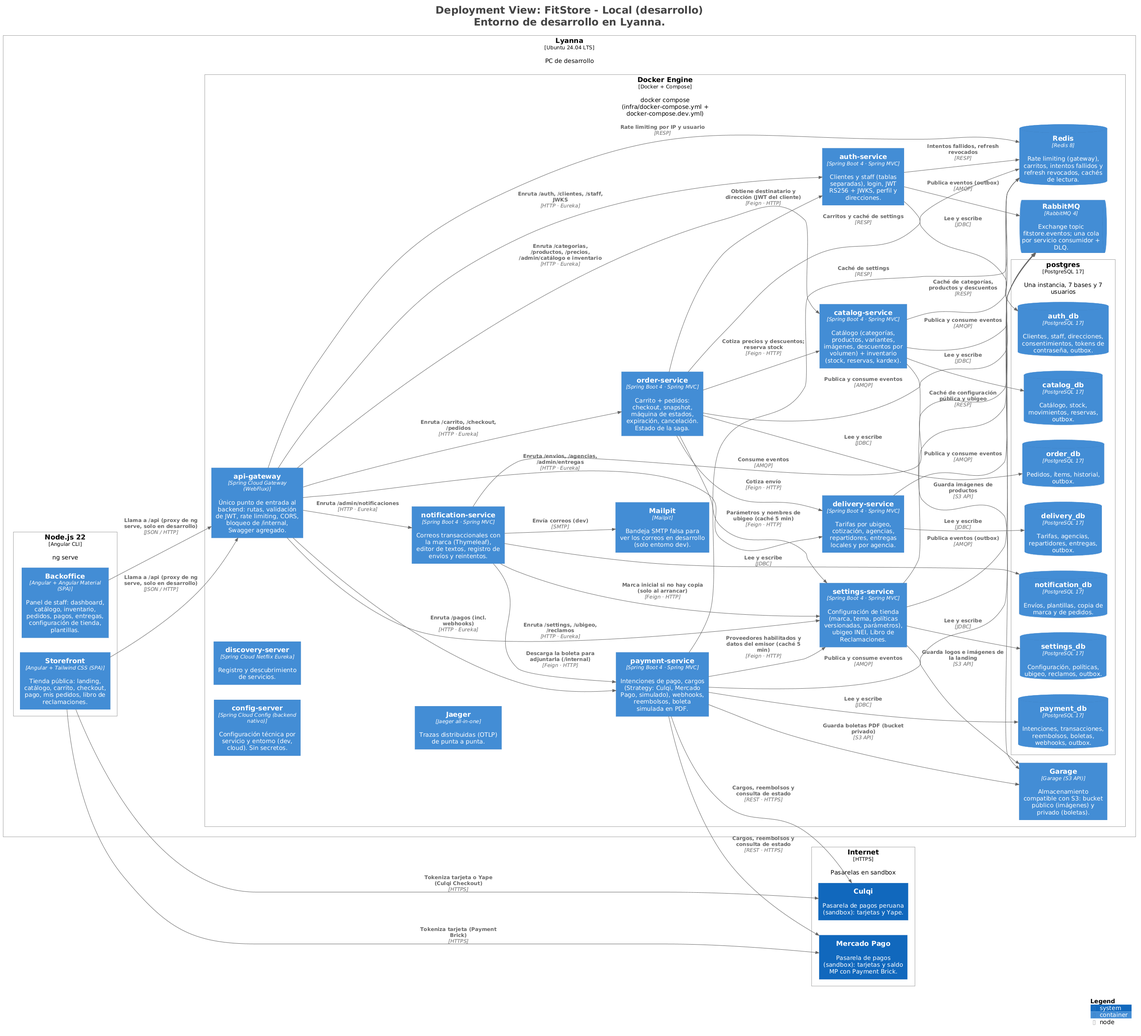
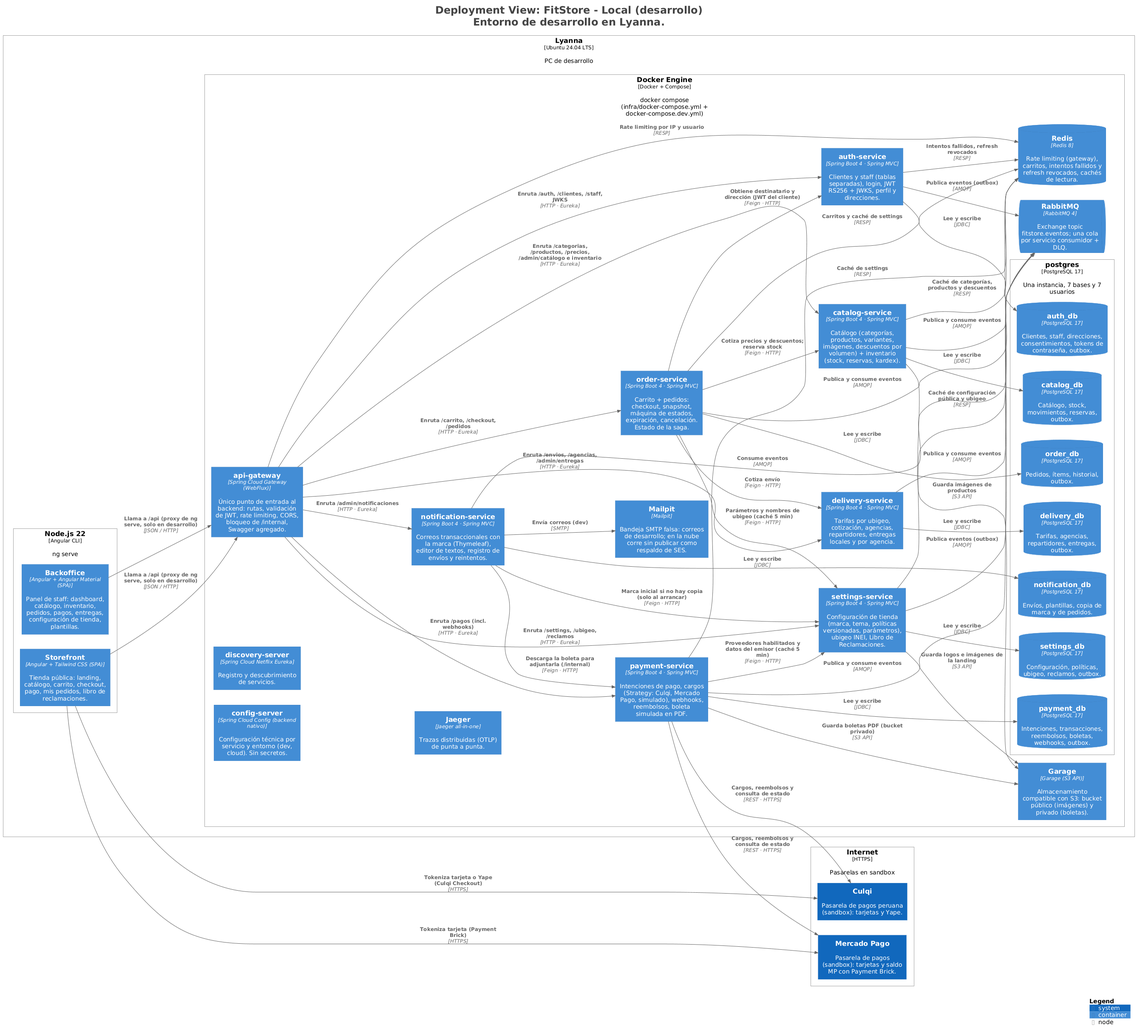
docs: revisión de coherencia entre todos los documentos aprobados
- Eventos: PedidoExpirado sin notification (order v8, macro v23, notification v10, SPEC-7 v4); PagoReembolsado también lo consume order (payment v8).
- Menú del backoffice completo y contadores por funcionalidad (SPEC-0b v6 R3, CA-0b-24; SPEC-5 v8).
- Catalog v7: rangos de la configuración de inventario; SPEC-2 v7 sin restos de la configuración en P-2-07.
- Infraestructura: duckdns y Mailpit como respaldo de SES en la nube (micro v5, SPEC-8 v3, ADR-014, C4 de despliegue).
- RF-BO-02 citado en la 0b; RF-BO-03 como alcance futuro (SPEC-4 v8, macro).
- SPEC-6 v5 (orden de rutas), README (14 pantallas clave), c4-sistema v5, bocetos P-0b-02 y P-4-06.

diff --git a/docs/specs/img/src/P-4-06-detalle-pedido.html b/docs/specs/img/src/P-4-06-detalle-pedido.html
@@ -12,10 +12,10 @@
 <div class="card col"><b>Historial</b><div class="s">13/10 08:40 · → PENDIENTE_PAGO · Cliente</div><div class="s">13/10 08:41 · Pago rechazado: fondos insuficientes · Sistema</div><div class="s">13/10 08:44 · → PAGADO · Sistema</div></div></div>
 <div class="col" style="width:420px"><div class="card col"><b>Cliente y destinatario</b><span class="s">Luis Rojas · luis@correo.com<br>DNI 44556677 · 987654321<br><u>Ver ficha del cliente</u></span></div>
 <div class="card col"><b>Entrega</b><span class="s">Av. Aviación 1450 · San Borja, Lima, Lima<br>Ref.: edificio azul · 1–2 días hábiles</span><span class="s">Notas: "Tocar el timbre 2 veces"</span></div>
-<div class="card col"><b>Pago</b><span class="s">Culqi · tarjeta · S/ 129.80 · <u>Boleta B001-000045</u></span></div>
+<div class="card col"><b>Pago</b><span class="s">Culqi · tarjeta · S/ 129.80 · <u>Boleta B001-00000045</u></span></div>
 <div class="card col" style="border-style:dashed"><b>Registrar reembolso (diálogo · solo ADMIN · pedido ENTREGADO dentro del plazo)</b>
 <div class="row s"><span>☑</span><span class="sp">Legging Pro Compresión · M · Negro</span><span>cant. [1] de 2</span><span>S/ 59.90</span></div>
 <div class="row"><div class="f sp">Monto: S/ 59.90 (propuesto, editable)</div><div class="f sp">Motivo: Prenda defectuosa ▾</div></div><div class="f">Nota (opcional)</div>
 <div class="row"><span class="s">Puedes devolver hasta S/ 129.80 · plazo hasta 12/11 · el stock no se reingresa solo</span><span class="sp"></span><div class="btn p">Registrar reembolso</div></div></div>
-<div class="card col" style="border-style:dashed"><b>Diálogos</b><span class="s">Comentario opcional al avanzar · Cancelar: motivo obligatorio (300) · Recogido: ☐ Verifiqué el DNI del destinatario</span><div class="err">409: "El pedido cambió; recarga la página"</div></div></div></div></div></div>
+<div class="card col" style="border-style:dashed"><b>Diálogos</b><span class="s">Comentario opcional al avanzar · Cancelar: motivo obligatorio (300) · Recogido: ☐ Verifiqué el DNI del destinatario · No recogido: motivo obligatorio (→ DEVUELTO)</span><div class="err">409: "El pedido cambió; recarga la página"</div></div></div></div></div></div>
 </body></html>

diff --git a/docs/specs/img/src/P-0b-02-backoffice.html b/docs/specs/img/src/P-0b-02-backoffice.html
@@ -4,14 +4,14 @@
  <div class="col pad g" style="width:240px">
   <div class="box b" style="height:48px;background:#fff">LOGO · Tienda</div>
   <div class="p pad" style="border-radius:6px">▣ Dashboard</div>
-  <div>🧾 Pedidos</div><div>🚚 Entregas</div><div>👷 Repartidores</div>
-  <div>👕 Catálogo</div><div>📦 Inventario</div>
-  <div>💳 Pagos <span class="tag">ADMIN</span></div>
+  <div>🧾 Pedidos</div><div>🚚 Entregas</div><div class="s" style="padding-left:22px">Lista · Del día</div><div>👷 Repartidores</div>
+  <div>👕 Catálogo</div><div class="s" style="padding-left:22px">Productos · Categorías · Tallas y colores · Descuentos · Carga masiva</div><div>📦 Inventario</div>
+  <div>💳 Pagos <span class="tag">ADMIN</span></div><div class="s" style="padding-left:22px">Pagos · Reembolsos <span style="background:#b91c1c;color:#fff;border-radius:9px;padding:0 6px">1</span></div>
   <div>🏷 Tarifas y agencias <span class="tag">ADMIN</span></div>
   <div>👥 Clientes</div><div>🛡 Staff <span class="tag">ADMIN</span></div>
-  <div>✉ Notificaciones <span class="tag">ADMIN</span></div>
+  <div>✉ Notificaciones <span class="tag">ADMIN</span></div><div class="s" style="padding-left:22px">Registro · Plantillas</div>
   <div>📕 Reclamos</div>
-  <div>⚙ Configuración de tienda <span class="tag">ADMIN</span></div>
+  <div>⚙ Configuración de tienda <span class="tag">ADMIN</span></div><div class="s" style="padding-left:22px">Tienda · Políticas</div>
   <div class="sp"></div><div class="s">Menú según rol (OPERADOR no ve lo marcado ADMIN)</div>
  </div>
  <div class="col sp">

diff --git a/docs/specs/SPEC-0b-fundaciones-frontend.md b/docs/specs/SPEC-0b-fundaciones-frontend.md
@@ -1,10 +1,11 @@
 # SPEC-0b — Fundaciones del frontend
 
-> Versión: **v5 (aprobado)** — 2026-10-19 · Estados: ✅ decidido · 🟡 propuesto · ❓ abierto
+> Versión: **v6 (aprobado)** — 2026-10-19 · Estados: ✅ decidido · 🟡 propuesto · ❓ abierto
 > **Dueña de:** workspace Angular (`frontend/`), librería `shared`, *shells* (layouts) de storefront y backoffice, rutas y menús generales, tema white-label, carpetas `ui/` de cada app, job de frontend en CI.
 > **Depende de:** 0a (gateway y CI), la etapa de contratos (OpenAPI para generar los clientes) y la etapa de diseño (**sistema de diseño**: los componentes de `ui/` se construyen según él). · **Habilita:** pantallas de las specs 1–8.
 
 **Historial:**
+- v6 (2026-10-19): revisión de coherencia: HU-0b-06 cita RF-BO-02 (tablas con paginación, filtros y orden); menú del backoffice completo (R3: ítems, subítems, roles) y mecanismo de contadores por funcionalidad (`CONTADOR_MENU`), que necesitaba la SPEC-5 para los reembolsos fallidos (CA-0b-24).
 - v5 (2026-10-19): el selector de ubigeo de `ui/` acepta la opción `hasta` (departamento, provincia o distrito), pedida por la SPEC-6 para las tarifas (CA-0b-26).
 - v4 (2026-10-18): **convención de filas de las tablas del backoffice** (R11, CA-0b-28b): el identificador es un enlace real, la fila entera es clicable y la última columna lleva las acciones ("Ver ›", hasta 2 botones o el menú "⋮"). Se aplica a los listados de las specs 1–5 (revisión hecha al cerrar la SPEC-5).
 - v3 (2026-10-18): el pie de la tienda va al final del documento y nunca se ve en la pantalla inicial (boceto P-0b-01 y CA-0b-20b). Resto de la spec aprobado → **spec aprobada**.
@@ -169,12 +170,14 @@ CA-0b-23  Cuando la spec del carrito actualiza el contador compartido
           Entonces el icono del carrito muestra la cantidad sin recargar
 
 CA-0b-24  Cuando abro el backoffice
-          Entonces veo menú lateral por rol, ruta de migas, título de página y menú de usuario (perfil, cambiar contraseña, salir)
+          Entonces veo menú lateral por rol (con los ítems y subítems de la tabla R3), ruta de migas, título de página
+               y menú de usuario (perfil, cambiar contraseña, salir)
+          Y un ítem con contador registrado (p. ej. Reembolsos) muestra su número como insignia
 ```
 
 ### HU-0b-06 — Componentes compartidos documentados
 
-Como desarrollador de una funcionalidad, quiero componentes listos y un catálogo para verlos, para armar pantallas coherentes sin crear los míos. · Cubre: RNF-11, 18, 20 · Pantallas: [P-0b-03](#p-0b-03--estados-comunes), [P-0b-04](#p-0b-04--catálogo-de-componentes)
+Como desarrollador de una funcionalidad, quiero componentes listos y un catálogo para verlos, para armar pantallas coherentes sin crear los míos. · Cubre: RF-BO-02, RNF-11, 18, 20 · Pantallas: [P-0b-03](#p-0b-03--estados-comunes), [P-0b-04](#p-0b-04--catálogo-de-componentes)
 
 ```gherkin
 CA-0b-25  Cuando abro /_ui en desarrollo (en cualquiera de las dos apps)
@@ -266,7 +269,7 @@ No modifica el backend. Decisiones de implementación del frontend:
 |---|---|---|
 | R1 | **Estructura** ✅ | `frontend/projects/{storefront,backoffice}/src/app/{core,layout,ui,features}` y `frontend/projects/shared/src/lib/{api,auth,http,theme,i18n,ubigeo,carrito,models,pipes}`. Componentes *standalone*, señales (`signal`, `computed`) para el estado y control de flujo nuevo (`@if`, `@for`). Sin NgRx (KISS) |
 | R2 | **Rutas registradas** ✅ | Tabla de abajo; cada ruta carga `features/<carpeta>/<carpeta>.routes.ts`, que 0b crea con una página "Próximamente". La spec dueña solo reemplaza el contenido de su carpeta |
-| R3 | **Menú por rol** | Definido en `layout/menu.ts` del backoffice con el rol mínimo de cada ítem (ver P-0b-02) |
+| R3 | **Menú por rol** ✅ | Definido en `layout/menu.ts` del backoffice con el rol mínimo de cada ítem y sus subítems (tabla de abajo y P-0b-02); los ítems pueden mostrar un contador aportado por su funcionalidad |
 | R4 | **Tema** ✅ | `provideAppInitializer` carga `/settings/public` y escribe variables CSS en `:root` (`--fs-color-primario`, `--fs-color-secundario`, `--fs-color-acento`, `--fs-color-fondo`, `--fs-color-texto`, `--fs-fuente`, `--fs-radio`). Tailwind 4 las usa en su `@theme`; en Angular Material 3 se asignan a los tokens del sistema (`--mat-sys-primary`, …). La configuración se guarda en `localStorage` como respaldo (CA-0b-07). La fuente se carga de Google Fonts según `tipografia` |
 | R5 | **Clientes de API** ✅ | `openapi-generator` (`typescript-angular`) → `shared/api/<servicio>/`, **versionados en Git**; el CI regenera y falla si hay diferencias (CA-0b-30). Ninguna spec los edita a mano |
 | R6 | **Sesión** | `SesionStore` en `shared/auth` (señales: cuenta, rol, tipo; el access token solo en memoria). `iniciarSesion()` y `cerrarSesion()` los llaman las pantallas de la spec 1. Guards `autenticadoGuard`, `rolGuard('ADMIN')` |
@@ -275,6 +278,26 @@ No modifica el backend. Decisiones de implementación del frontend:
 | R9 | **Pruebas unitarias** ✅ | El *runner* por defecto del CLI de Angular 22 (Vitest) con Angular Testing Library; se verifica al crear el workspace |
 | R10 | **Accesibilidad** | Componentes de `ui/` con etiquetas, foco visible y contraste del tema (RNF-19 advierte en settings); objetivo Lighthouse ≥ 85 se mide en la spec 8 |
 | R11 | **Filas de las tablas del backoffice** ✅ | Convención única de la tabla paginada de `ui/` (`FsTabla` con `filaEnlace` y `acciones`): (1) el **identificador** de la fila (código, nombre o número) es un `<a routerLink>`; (2) **toda la fila** es clicable, con *hover*, y navega a lo mismo; (3) **última columna de acciones**, alineada a la derecha: "Ver ›" si la fila solo tiene detalle, **1 o 2 botones** si tiene acciones propias, o el menú **"⋮"** (`mat-menu`) si son 3 o más. Los clics en acciones no se propagan a la fila. Si la entidad no tiene página de detalle, el enlace abre su diálogo de edición. Cada spec indica en la pantalla qué abre el enlace y qué acciones lleva la fila |
+
+**Menú del backoffice (R3):**
+
+| Ítem | Subítems (ruta) | Rol mínimo | Contador |
+|---|---|---|---|
+| Dashboard | `/` | OPERADOR | — |
+| Pedidos | `/pedidos` | OPERADOR | — |
+| Entregas | Lista (`/entregas`), Del día (`/entregas/dia`) | OPERADOR | — |
+| Repartidores | `/repartidores` | OPERADOR | — |
+| Catálogo | Productos (`/catalogo/productos`, OPERADOR en lectura), Categorías, Tallas y colores, Descuentos, Carga masiva (ADMIN) | OPERADOR | — |
+| Inventario | `/inventario` | OPERADOR | — |
+| Pagos | Pagos (`/pagos`), Reembolsos (`/reembolsos`) | ADMIN | Reembolsos fallidos (SPEC-5) |
+| Tarifas y agencias | Tarifas (`/tarifas`), Agencias (`/agencias`) | ADMIN | — |
+| Clientes | `/clientes` | OPERADOR | — |
+| Staff | `/staff` | ADMIN | — |
+| Notificaciones | Registro (`/notificaciones`), Plantillas (`/notificaciones/plantillas`) | ADMIN | — |
+| Reclamos | `/reclamos` | OPERADOR | — |
+| Configuración de tienda | Tienda (`/configuracion`), Políticas (`/configuracion/politicas`) | ADMIN | — |
+
+Los contadores los aporta cada funcionalidad sin tocar el *shell*: registra un proveedor `CONTADOR_MENU` (*multi provider*) con la clave del ítem y una función que devuelve el número; el *shell* lo muestra como insignia y lo refresca al navegar.
 
 **Rutas registradas (R2):**
 

diff --git a/docs/specs/SPEC-7-notificaciones.md b/docs/specs/SPEC-7-notificaciones.md
@@ -1,11 +1,12 @@
 # SPEC-7 — Notificaciones
 
-> Versión: **v3 (aprobado)** — 2026-10-19 · Estados: ✅ decidido · 🟡 propuesto · ❓ abierto
+> Versión: **v4 (aprobado)** — 2026-10-19 · Estados: ✅ decidido · 🟡 propuesto · ❓ abierto
 > **Dueña de:** `backend/notification-service` (enrutamiento de eventos, plantillas, envío, registro) · backoffice: `features/notificaciones`.
 > **Depende de:** 0a, 0b, 1 (sesión de staff) · consume los eventos de auth, order, payment, delivery, catalog y settings (AsyncAPI) y usa `/internal/v1/boletas/{numero}` de payment · **Habilita:** 8 (demo con todos los correos en Mailpit y SES).
 > **Contratos:** `contracts/openapi/notification-service.yaml`; no publica eventos; consume los de la sección 6 del micro.
 
 **Historial:**
+- v4 (2026-10-19): revisión de coherencia: CA-7-03 aclara que `PedidoExpirado` y `PagoRechazado` no se escuchan (micro v10).
 - v3 (2026-10-19): los datos de demostración también se cargan en la nube con el perfil `demo` (SPEC-8 I7), con UUID fijos compartidos entre servicios (`docs/demo/ids-demo.md`).
 - v2 (2026-10-19): N7 ✅ "Enviar prueba a mi correo" (CA-7-30; micro v9) → **spec aprobada**.
 - v1 (2026-10-19): borrador inicial.
@@ -50,9 +51,9 @@ CA-7-01  Cuando llega cada evento de la tabla 4.1 del micro
 CA-7-02  Dado que el mismo evento llega dos veces
          Entonces se crea un solo envío
 
-CA-7-03  Cuando llegan PedidoCreado, PedidoPagado, PedidoExpirado, PagoRechazado o EntregaActualizada
-         en PENDIENTE_* o ASIGNADA
+CA-7-03  Cuando llegan PedidoCreado, PedidoPagado o EntregaActualizada en PENDIENTE_* o ASIGNADA
          Entonces no se envía ningún correo (PedidoCreado guarda la copia del pedido; PedidoPagado inicia el respaldo de la boleta)
+         Y PedidoExpirado y PagoRechazado ni siquiera se escuchan (la cola no se enlaza a sus routing keys)
 
 CA-7-04  Dado que el admin desactivó una plantilla opcional (p. ej. la bienvenida)
          Entonces su evento no genera envío
@@ -234,7 +235,7 @@ Todo según el micro de notification. Decisiones de implementación de esta spec
 | N5 | **Reenvío con textos actuales** ✅ | Reenviar vuelve a renderizar con la marca y los textos vigentes (no se guarda el HTML enviado, para no almacenar datos personales de más) |
 | N6 | **Ritmo por entorno** ✅ | `ritmo-por-segundo`: 1 en `cloud` (límite de SES en sandbox) y 10 en `dev` (Mailpit no tiene límite), para que la demo local sea ágil |
 | N7 | **Enviar prueba a mi correo** ✅ | Botón en el editor que envía el correo con los textos actuales y datos de ejemplo al correo del admin conectado (lo toma del token), con "[Prueba]" en el asunto; respeta el ritmo y queda en el registro con referencia `PRUEBA`. Endpoint `POST /admin/notificaciones/plantillas/{codigo}/prueba` (micro v9). En la nube, con SES en sandbox, el correo del admin debe estar verificado (R14) |
-| N8 | **Corrección del micro** ✅ | El micro dice "definición de las 17" plantillas en 10.1; con C14 son **18**. Se corrige en esta spec (micro v8) |
+| N8 | **Corrección del micro** ✅ | El micro decía "definición de las 17" plantillas en 10.1; con C14 son **18**. Corregido en el micro v8 |
 
 ## 6. Datos
 

diff --git a/docs/specs/SPEC-8-integracion-nube-demo.md b/docs/specs/SPEC-8-integracion-nube-demo.md
@@ -1,11 +1,12 @@
 # SPEC-8 — Integración, nube y demo
 
-> Versión: **v2 (aprobado)** — 2026-10-19 · Estados: ✅ decidido · 🟡 propuesto · ❓ abierto
+> Versión: **v3 (aprobado)** — 2026-10-19 · Estados: ✅ decidido · 🟡 propuesto · ❓ abierto
 > **Dueña de:** dashboard del backoffice (`features/dashboard`), pruebas de punta a punta (`frontend/e2e/`), despliegue en la nube (`infra/docker-compose.cloud.yml`, `infra/caddy/`, `infra/scripts/`, `.github/workflows/deploy.yml`), guion de la demo (`docs/demo/`).
 > **Depende de:** 1 a 7 (todas integradas en `dev`) · usa los endpoints de resumen de order, catalog, delivery y settings · **Habilita:** la entrega final (demo en la nube, video y exposición).
 > **Contratos:** no crea endpoints; consume los ya definidos (sección 4).
 
 **Historial:**
+- v3 (2026-10-19): revisión de coherencia: Mailpit corre en la nube sin publicar como respaldo de SES (CA-8-15, CA-8-30; micro de infraestructura v5 con `duckdns` y Mailpit en la tabla de memoria).
 - v2 (2026-10-19): I6 ✅ Garage en la VM (adaptador Azure Blob diferido); I7 ✅ la nube carga **todos** los datos de demostración, incluidos clientes y pedidos, con la contraseña de las cuentas demo desde un secreto (CA-8-31) → **spec aprobada**. Ajustes propagados: SPEC-0a v5, SPEC-1 v5, SPEC-2 a SPEC-7 (nota del perfil `demo`), micro de infraestructura v5, stack v3, macro v22 y ADR-013.
 - v1 (2026-10-19): borrador inicial.
 
@@ -107,7 +108,7 @@ CA-8-14  Cuando levanto docker-compose.cloud.yml en la VM
          Entonces https://tienda.<sub>.duckdns.org muestra el storefront y https://admin.<sub>.duckdns.org el backoffice,
               ambos con certificado válido de Let's Encrypt gestionado por Caddy, y /api de cada dominio llega al gateway
 
-CA-8-15  Solo Caddy publica puertos (80 y 443); Eureka, RabbitMQ, Jaeger, Garage-admin y las bases no son accesibles
+CA-8-15  Solo Caddy publica puertos (80 y 443); Eureka, RabbitMQ, Jaeger, Mailpit, Garage-admin y las bases no son accesibles
          desde internet (verificado con un escaneo de puertos desde fuera)
 
 CA-8-16  La suma de mem_limit de los contenedores es ≤ 6,5 GB y todo queda "healthy" en la VM de 8 GB;
@@ -179,7 +180,7 @@ CA-8-29  docs/demo/guion.md lista, con tiempos, el recorrido: landing y catálog
          (Swagger con contraseña, Postman contra la nube, Jaeger, GitHub Actions)
 
 CA-8-30  El guion incluye la lista de verificación previa (VM encendida, certificados, correos verificados, datos de demo,
-         saldo de la tarjeta de prueba) y un plan B por cada dependencia externa (sandbox caído → simulado; SES → Mailpit por túnel)
+         saldo de la tarjeta de prueba) y un plan B por cada dependencia externa (sandbox caído → simulado; SES caído → SMTP_HOST=mailpit y los correos se ven por túnel)
 
 CA-8-31  Dado el perfil demo en la nube
          Entonces existen los datos de demostración de todos los servicios (clientes, pedidos, pagos, entregas, correos),

diff --git a/docs/specs/SPEC-2-catalogo-inventario.md b/docs/specs/SPEC-2-catalogo-inventario.md
@@ -1,11 +1,12 @@
 # SPEC-2 — Catálogo e inventario
 
-> Versión: **v6 (aprobado)** — 2026-10-19 · Estados: ✅ decidido · 🟡 propuesto · ❓ abierto
+> Versión: **v7 (aprobado)** — 2026-10-19 · Estados: ✅ decidido · 🟡 propuesto · ❓ abierto
 > **Dueña de:** `backend/catalog-service` (módulos catálogo e inventario) · tienda: `features/catalogo` · backoffice: `features/catalogo`, `features/inventario`.
 > **Depende de:** 0a, 0b, 1 (sesión de staff) · **Habilita:** 3 (destacados de la landing), 4 (cotización y reserva), 8.
 > **Contratos:** `contracts/openapi/catalog-service.yaml` (incluye `/internal/v1/inventario/reservas`); usa el contrato de order (`POST /carrito/items`); eventos `StockBajo`, `StockNoConfirmado` (publica) y `PedidoPagado`, `PedidoCancelado`, `PedidoExpirado` (consume).
 
 **Historial:**
+- v7 (2026-10-19): revisión de coherencia: P-2-07 ya no menciona la configuración de inventario (se movió a P-3-04 en la v4).
 - v6 (2026-10-19): los datos de demostración también se cargan en la nube con el perfil `demo` (SPEC-8 I7), con UUID fijos compartidos entre servicios (`docs/demo/ids-demo.md`).
 - v5 (2026-10-18): convención de tablas de la SPEC-0b (R11) aplicada a P-2-03, P-2-07, P-2-08 y P-2-09 (y señalada como no aplicable en P-2-05 y P-2-06); P-2-04 se abre en solo lectura para OPERADOR (antes la ruta era solo ADMIN, aunque P-2-03 le permitía ver los productos). Bocetos actualizados.
 - v4 (2026-10-18): por decisión de la SPEC-3 (S2), el stock mínimo por defecto y el margen de reserva se editan en Configuración de tienda (P-3-04, pestaña Parámetros); se quita `DialogoConfiguracionInventario` de P-2-07. El endpoint sigue siendo de esta spec.
@@ -383,12 +384,12 @@ CA-2-57  Dado Redis caído
 
 ### P-2-07 — Inventario
 
-- **Ruta / proyecto:** `/inventario` · backoffice · OPERADOR y ADMIN (configuración: solo ADMIN).
+- **Ruta / proyecto:** `/inventario` · backoffice · OPERADOR y ADMIN.
 - **Boceto:** ![P-2-07](img/P-2-07-inventario.png)
 - **Diseño de alta fidelidad:** 🕓 deriva del sistema de diseño (patrón "tabla").
 - **Componentes:** `InventarioPage` (tabla con filas resaltadas por stock bajo y agotado), `DialogoEntrada` (varias líneas), `DialogoAjuste`. La configuración de inventario de la tienda se edita en P-3-04 (SPEC-3).
 - **Tabla (0b R11):** el **SKU** abre el kardex (`/inventario/:varianteId`, P-2-08); acciones: "Kardex ›" y "Mínimo" (diálogo para el umbral propio del SKU, CA-2-43).
-- **Endpoints:** `GET /admin/inventario`, `POST /admin/inventario/entradas|ajustes`, `PATCH /admin/inventario/{varianteId}/minimo`, `GET/PUT /admin/inventario/configuracion`.
+- **Endpoints:** `GET /admin/inventario`, `POST /admin/inventario/entradas|ajustes`, `PATCH /admin/inventario/{varianteId}/minimo`. (`GET/PUT /admin/inventario/configuracion` lo implementa esta spec, pero lo usa P-3-04 de la SPEC-3.)
 
 ### P-2-09 — Carga masiva
 

diff --git a/docs/analisis/micro/order-service.md b/docs/analisis/micro/order-service.md
@@ -1,9 +1,10 @@
 # FitStore — Análisis micro: `order-service`
 
-> Versión: **v7 (aprobado)** — 2026-10-19. Fuente: [`01-analisis-macro.md`](../01-analisis-macro.md) v12.
+> Versión: **v8 (aprobado)** — 2026-10-19. Fuente: [`01-analisis-macro.md`](../01-analisis-macro.md) v12.
 > Estados: ✅ decidido · 🟡 propuesto · ❓ abierto · 🕓 diferido
 
 **Historial:**
+- v8 (2026-10-19): revisión de coherencia: `PedidoExpirado` no lo consume notification (no hay correo de pedido expirado).
 - v7 (2026-10-19): por SPEC-6: estado final **`DEVUELTO`** (desde `ENVIADO` con `EntregaActualizada` devuelta, o desde `LISTO_RECOJO` cuando el operador marca "No recogido"); el reembolso postventa también se permite en `DEVUELTO`, sin plazo, con motivo `NO_ENTREGADO`.
 - v6 (2026-10-18): **reembolso postventa** (4.8): el ADMIN registra un reembolso total o parcial de un pedido `ENTREGADO` dentro del plazo de settings; tabla `pedido_reembolso`, campo `monto_reembolsado`, evento `ReembolsoSolicitado`, consume `PagoReembolsado`. Decidido en la SPEC-5.
 - v5 (2026-10-18): desde la SPEC-4: los pedidos de un cliente usan `GET /admin/pedidos?clienteId=` (se quita `/admin/clientes/{clienteId}/pedidos`, O3); las ventas del resumen se cuentan por la fecha del paso a `PAGADO` y sin los cancelados, con índice `pedido_historial (estado_nuevo, creado_en)` (O6).
@@ -351,7 +352,7 @@ Exchange `fitstore.eventos` (topic), sobre común, outbox e idempotencia (ADR-00
 | `PedidoCreado` | `order.pedido.creado` | `pedidoId`, `codigo`, `clienteId`, destinatario, modalidad, dirección, `items[]`, `subtotal`, `descuentoTotal`, `costoEnvio`, `total`, `expiraEn` | payment (intención de pago), notification |
 | `PedidoPagado` | `order.pedido.pagado` | `pedidoId`, `codigo`, `items[{varianteId, cantidad}]` | catalog (confirmar reserva), notification |
 | `PedidoCancelado` | `order.pedido.cancelado` | `pedidoId`, `codigo`, `fuePagado`, `motivo`, `actor`, `items[]` | catalog, payment (reembolso si fue pagado), notification |
-| `PedidoExpirado` | `order.pedido.expirado` | `pedidoId`, `codigo` | catalog, payment (anular intención), notification |
+| `PedidoExpirado` | `order.pedido.expirado` | `pedidoId`, `codigo` | catalog, payment (anular intención) |
 | `PagoNoAplicable` | `order.pago.no-aplicable` | `pedidoId`, `pagoId`, `motivo` | payment (reembolso automático) |
 | `PedidoListoDespacho` | `order.pedido.listo-despacho` | `pedidoId`, `codigo`, modalidad, destinatario, dirección, agencia, resumen de ítems | delivery (crear entrega) |
 | `ReembolsoSolicitado` ✅ **nuevo** | `order.reembolso.solicitado` | `pedidoId`, `codigo`, `solicitudId` (id de `pedido_reembolso`, clave de idempotencia), `monto`, `motivo` | payment (ejecuta el reembolso) |

diff --git a/docs/specs/SPEC-5-pagos.md b/docs/specs/SPEC-5-pagos.md
@@ -1,11 +1,12 @@
 # SPEC-5 — Pagos
 
-> Versión: **v7 (aprobado)** — 2026-10-19 · Estados: ✅ decidido · 🟡 propuesto · ❓ abierto
+> Versión: **v8 (aprobado)** — 2026-10-19 · Estados: ✅ decidido · 🟡 propuesto · ❓ abierto
 > **Dueña de:** `backend/payment-service` (intención, cobros, webhooks, reembolsos, boleta) · tienda: `features/pago` · backoffice: `features/pagos`.
 > **Depende de:** 0a, 0b, 1 (sesión) · usa el contrato de eventos de order (`PedidoCreado`, `PedidoCancelado`, `PedidoExpirado`, `PagoNoAplicable`, `ReembolsoSolicitado`) y `GET /settings/public` · **Habilita:** 4 (el pedido pasa a `PAGADO`, guarda la boleta y registra lo reembolsado), 7 (correos de pago, reembolso y alerta con la boleta adjunta), 8 (demo de punta a punta).
 > **Contratos:** `contracts/openapi/payment-service.yaml`; eventos que publica `PagoConfirmado`, `PagoRechazado`, `BoletaEmitida`, `PagoReembolsado`, `ReembolsoFallido`.
 
 **Historial:**
+- v8 (2026-10-19): revisión de coherencia: el contador de reembolsos fallidos se registra con `CONTADOR_MENU` de la SPEC-0b (R3), en lugar de que el *shell* lo consulte por su cuenta.
 - v7 (2026-10-19): los datos de demostración también se cargan en la nube con el perfil `demo` (SPEC-8 I7), con UUID fijos compartidos entre servicios (`docs/demo/ids-demo.md`).
 - v6 (2026-10-19): el contador de reembolsos fallidos del menú usa `size=1` y lee el total (Spring Data no acepta `size=0`), corregido al redactar la SPEC-8.
 - v5 (2026-10-19): el reembolso postventa también aplica a pedidos devueltos a la tienda (SPEC-6); sin cambios en el flujo de payment.
@@ -302,7 +303,7 @@ CA-5-38  Cuando lo marco como resuelto manualmente (p. ej. devolví por transfer
 - **Ruta / proyecto:** `/reembolsos` · backoffice · ADMIN.
 - **Boceto:** ![P-5-05](img/P-5-05-reembolsos.png)
 - **Diseño de alta fidelidad:** 🕓 deriva del sistema de diseño.
-- **Componentes:** `ReembolsosPage`, `DialogoResolverManual` (nota obligatoria, hasta 500 caracteres), contador de fallidos en el menú (lo consulta el *shell* con `GET /admin/reembolsos?estado=FALLIDO&size=1`, leyendo el total).
+- **Componentes:** `ReembolsosPage`, `DialogoResolverManual` (nota obligatoria, hasta 500 caracteres), contador de fallidos en el menú: la funcionalidad `pagos` registra un `CONTADOR_MENU` (SPEC-0b R3) que llama a `GET /admin/reembolsos?estado=FALLIDO&size=1` y lee el total.
 - **Tabla (0b R11):** el **código del pedido** abre el detalle del pago al que pertenece el reembolso (`/pagos/:id`); acciones (solo en FALLIDO): "Reintentar" y "Resolver manualmente".
 - **Endpoints:** `GET /admin/reembolsos`, `POST /admin/reembolsos/{id}/reintentar`, `PATCH /admin/reembolsos/{id}/resuelto-manual`.
 

diff --git a/docs/analisis/micro/infraestructura.md b/docs/analisis/micro/infraestructura.md
@@ -5,7 +5,7 @@
 > Ficha corta: estos servicios no tienen dominio de negocio, así que la estructura difiere de la plantilla.
 
 **Historial:**
-- v5 (2026-10-19): `AzureBlobFileStorage` diferido (en la nube se usa Garage en la VM, SPEC-8 I6); se quita la ruta `/api/v1/admin/clientes/*/pedidos` del gateway (los pedidos de un cliente usan `GET /admin/pedidos?clienteId=`, SPEC-4 O3); detectado al redactar la SPEC-8.
+- v5 (2026-10-19): contenedor `duckdns` y Mailpit como respaldo de SES en `cloud` (SPEC-8); `AzureBlobFileStorage` diferido (en la nube se usa Garage en la VM, SPEC-8 I6); se quita la ruta `/api/v1/admin/clientes/*/pedidos` del gateway (los pedidos de un cliente usan `GET /admin/pedidos?clienteId=`, SPEC-4 O3); detectado al redactar la SPEC-8.
 - v4 (2026-10-18): sección 10 aprobada → **documento completo aprobado**.
 - v3 (2026-10-18): sección 10 (diseño técnico) redactada: C3, código de las partes críticas, paquetes, dependencias, configuración e infraestructura.
 - v2 (2026-10-16): documento aprobado. Dominio de la demo: subdominio gratuito de **DuckDNS** (`tienda.` y `admin.` debajo). Swagger publicado en la nube **con contraseña**.
@@ -127,7 +127,8 @@ Swagger UI en `/swagger-ui` con un selector por servicio (cada servicio expone s
 | rabbitmq | `rabbitmq:4-management` | 384 MB |
 | garage | `dxflrs/garage` | 96 MB |
 | jaeger | `jaegertracing/jaeger` (all-in-one, en memoria) | 256 MB |
-| mailpit | `axllent/mailpit` (solo `dev`) | 64 MB |
+| mailpit | `axllent/mailpit` (bandeja de `dev`; en `cloud` corre sin publicar como respaldo de SES) | 64 MB |
+| duckdns | `lscr.io/linuxserver/duckdns` (solo `cloud`: actualiza la IP pública cada 5 min) | 32 MB |
 | caddy | `caddy:2` | 64 MB |
 | config, discovery, gateway | imágenes propias (Java 21) | 256 MB c/u |
 | 7 servicios de negocio | imágenes propias (Java 21, `-Xmx192m`) | 320 MB c/u |
@@ -143,7 +144,7 @@ Las versiones exactas de las imágenes se fijan al crear el repositorio (no `lat
 
 - `infra/docker-compose.yml`: base común.
 - `infra/docker-compose.dev.yml`: Mailpit, puertos publicados en `localhost` para depurar, perfil `dev`.
-- `infra/docker-compose.cloud.yml`: Caddy con dominios reales, SES, perfil `cloud`, sin puertos internos publicados.
+- `infra/docker-compose.cloud.yml`: Caddy con dominios reales, SES, DuckDNS, perfil `cloud` (y `demo`), sin puertos internos publicados.
 - `infra/.env.example`: todas las variables necesarias, sin valores reales.
 - `infra/postgres/init.sql`: crea las 7 bases y sus usuarios.
 

diff --git a/docs/specs/SPEC-4-pedidos.md b/docs/specs/SPEC-4-pedidos.md
@@ -1,11 +1,12 @@
 # SPEC-4 — Pedidos
 
-> Versión: **v7 (aprobado)** — 2026-10-19 · Estados: ✅ decidido · 🟡 propuesto · ❓ abierto
+> Versión: **v8 (aprobado)** — 2026-10-19 · Estados: ✅ decidido · 🟡 propuesto · ❓ abierto
 > **Dueña de:** `backend/order-service` (carrito, checkout, pedidos, saga) · tienda: `features/carrito`, `features/checkout`, `features/mis-pedidos` · backoffice: `features/pedidos`.
 > **Depende de:** 0a, 0b, 1 (sesión y direcciones) · usa los contratos de catalog (cotizar, reservar), auth (cliente y dirección), delivery (opciones y cotización de envío) y settings (parámetros y ubigeo) · **Habilita:** 5 (pago del pedido), 6 (entrega desde `PedidoListoDespacho`), 7 (correos del pedido), 8 (dashboard y E2E).
 > **Contratos:** `contracts/openapi/order-service.yaml`; eventos que publica `PedidoCreado`, `PedidoPagado`, `PedidoCancelado`, `PedidoExpirado`, `PagoNoAplicable`, `PedidoListoDespacho`, `PedidoListoRecojo`, `PedidoRecogido`, `ReembolsoSolicitado`; consume `PagoConfirmado`, `PagoRechazado`, `BoletaEmitida`, `PagoReembolsado`, `EntregaActualizada`.
 
 **Historial:**
+- v8 (2026-10-19): revisión de coherencia: "No incluye" deja explícito que exportar pedidos a CSV (RF-BO-03, C) es alcance futuro.
 - v7 (2026-10-19): los datos de demostración también se cargan en la nube con el perfil `demo` (SPEC-8 I7), con UUID fijos compartidos entre servicios (`docs/demo/ids-demo.md`).
 - v6 (2026-10-19): por la SPEC-6, estado final **DEVUELTO**: desde ENVIADO cuando delivery devuelve la entrega a la tienda (CA-4-45) o desde LISTO_RECOJO cuando nadie recoge el pedido (CA-4-60); el reembolso postventa se permite en DEVUELTO sin plazo (CA-4-54, 57); etapa "Devuelto a la tienda" en el seguimiento (O9). Micro de order v7.
 - v5 (2026-10-18): P-4-05 y P-4-06 indican qué abre el enlace de cada fila y sus acciones, según la convención de tablas de la SPEC-0b (R11). Boceto P-4-05 actualizado.
@@ -33,6 +34,7 @@ Al cerrar esta spec, el cliente **arma su carrito** (con o sin sesión), ve sus 
 - Crear y avanzar la entrega (repartidor, agencia, intentos) → spec 6 (aquí se publica `PedidoListoDespacho` y se consume `EntregaActualizada`).
 - Correos del pedido → spec 7.
 - Pantalla del dashboard → spec 8 (aquí solo su endpoint de ventas).
+- Exportar pedidos a CSV (RF-BO-03, prioridad C) → alcance futuro.
 - Cotización y reserva de stock → spec 2 (aquí se llaman por contrato). Formulario de direcciones → spec 1.
 
 ## 2. Referencias

diff --git a/docs/analisis/micro/catalog-service.md b/docs/analisis/micro/catalog-service.md
@@ -1,9 +1,10 @@
 # FitStore — Análisis micro: `catalog-service`
 
-> Versión: **v6 (aprobado)** — 2026-10-16. Fuente: [`01-analisis-macro.md`](../01-analisis-macro.md) v11.
+> Versión: **v7 (aprobado)** — 2026-10-19. Fuente: [`01-analisis-macro.md`](../01-analisis-macro.md) v11.
 > Estados: ✅ decidido · 🟡 propuesto · ❓ abierto · 🕓 diferido
 
 **Historial:**
+- v7 (2026-10-19): revisión de coherencia: rangos de la configuración de inventario (stock mínimo por defecto 0–999, margen de reserva 0–30 min, como valida la SPEC-3 CA-3-38); se edita en la pestaña Parámetros de la configuración de tienda (SPEC-3 S2). Las dos entradas sin número de versión del 2026-10-18 corresponden a cambios de la SPEC-2 sobre la v6.
 - (2026-10-18, por SPEC-2) Cada imagen pertenece a un color (D3) y publicar exige una imagen por color activo (invariante 4); color maestro "Variado"; carga masiva de productos por CSV/XLSX (4.4.1); ejemplo de categorías renombrado.
 - v6 (2026-10-18): sección 10 aprobada → **documento completo aprobado**.
 - (2026-10-18) `ExpiradorReservas` pasa a llamarse **`LiberadorReservasVencidas`** y se documenta como red de seguridad del evento `PedidoExpirado` (4.7, 10.1, 10.3).
@@ -205,7 +206,7 @@ Extensiones: `unaccent` y `pg_trgm` (búsqueda sin tildes y por similitud).
 
 `movimiento_stock.tipo` ∈ `ENTRADA`, `AJUSTE` (+/−), `VENTA` (al confirmar el pago), `REINGRESO` (cancelación de un pedido pagado). Reservar y liberar no cambian `fisico`, por eso no generan movimiento (quedan en `reserva`).
 
-**Comunes:** `outbox_evento` (igual que auth) y `evento_procesado` (`evento_id` PK, `procesado_en`) para consumidores idempotentes (ADR-009). `configuracion_inventario` (fila única): `stock_minimo_por_defecto` (semilla 5) y `margen_reserva_minutos` (ver 4.6). Se edita desde el backoffice en la pestaña Parámetros de la configuración de la tienda (P-3-04, SPEC-3), pero el dato lo guarda catalog, que es quien lo usa.
+**Comunes:** `outbox_evento` (igual que auth) y `evento_procesado` (`evento_id` PK, `procesado_en`) para consumidores idempotentes (ADR-009). `configuracion_inventario` (fila única): `stock_minimo_por_defecto` (semilla 5, de 0 a 999) y `margen_reserva_minutos` (semilla 5, de 0 a 30; ver 4.6). Se edita desde el backoffice en la pestaña Parámetros de la configuración de la tienda (P-3-04, SPEC-3), pero el dato lo guarda catalog, que es quien lo usa.
 
 ### 3.2 Redis (prefijo `catalog:`)
 
